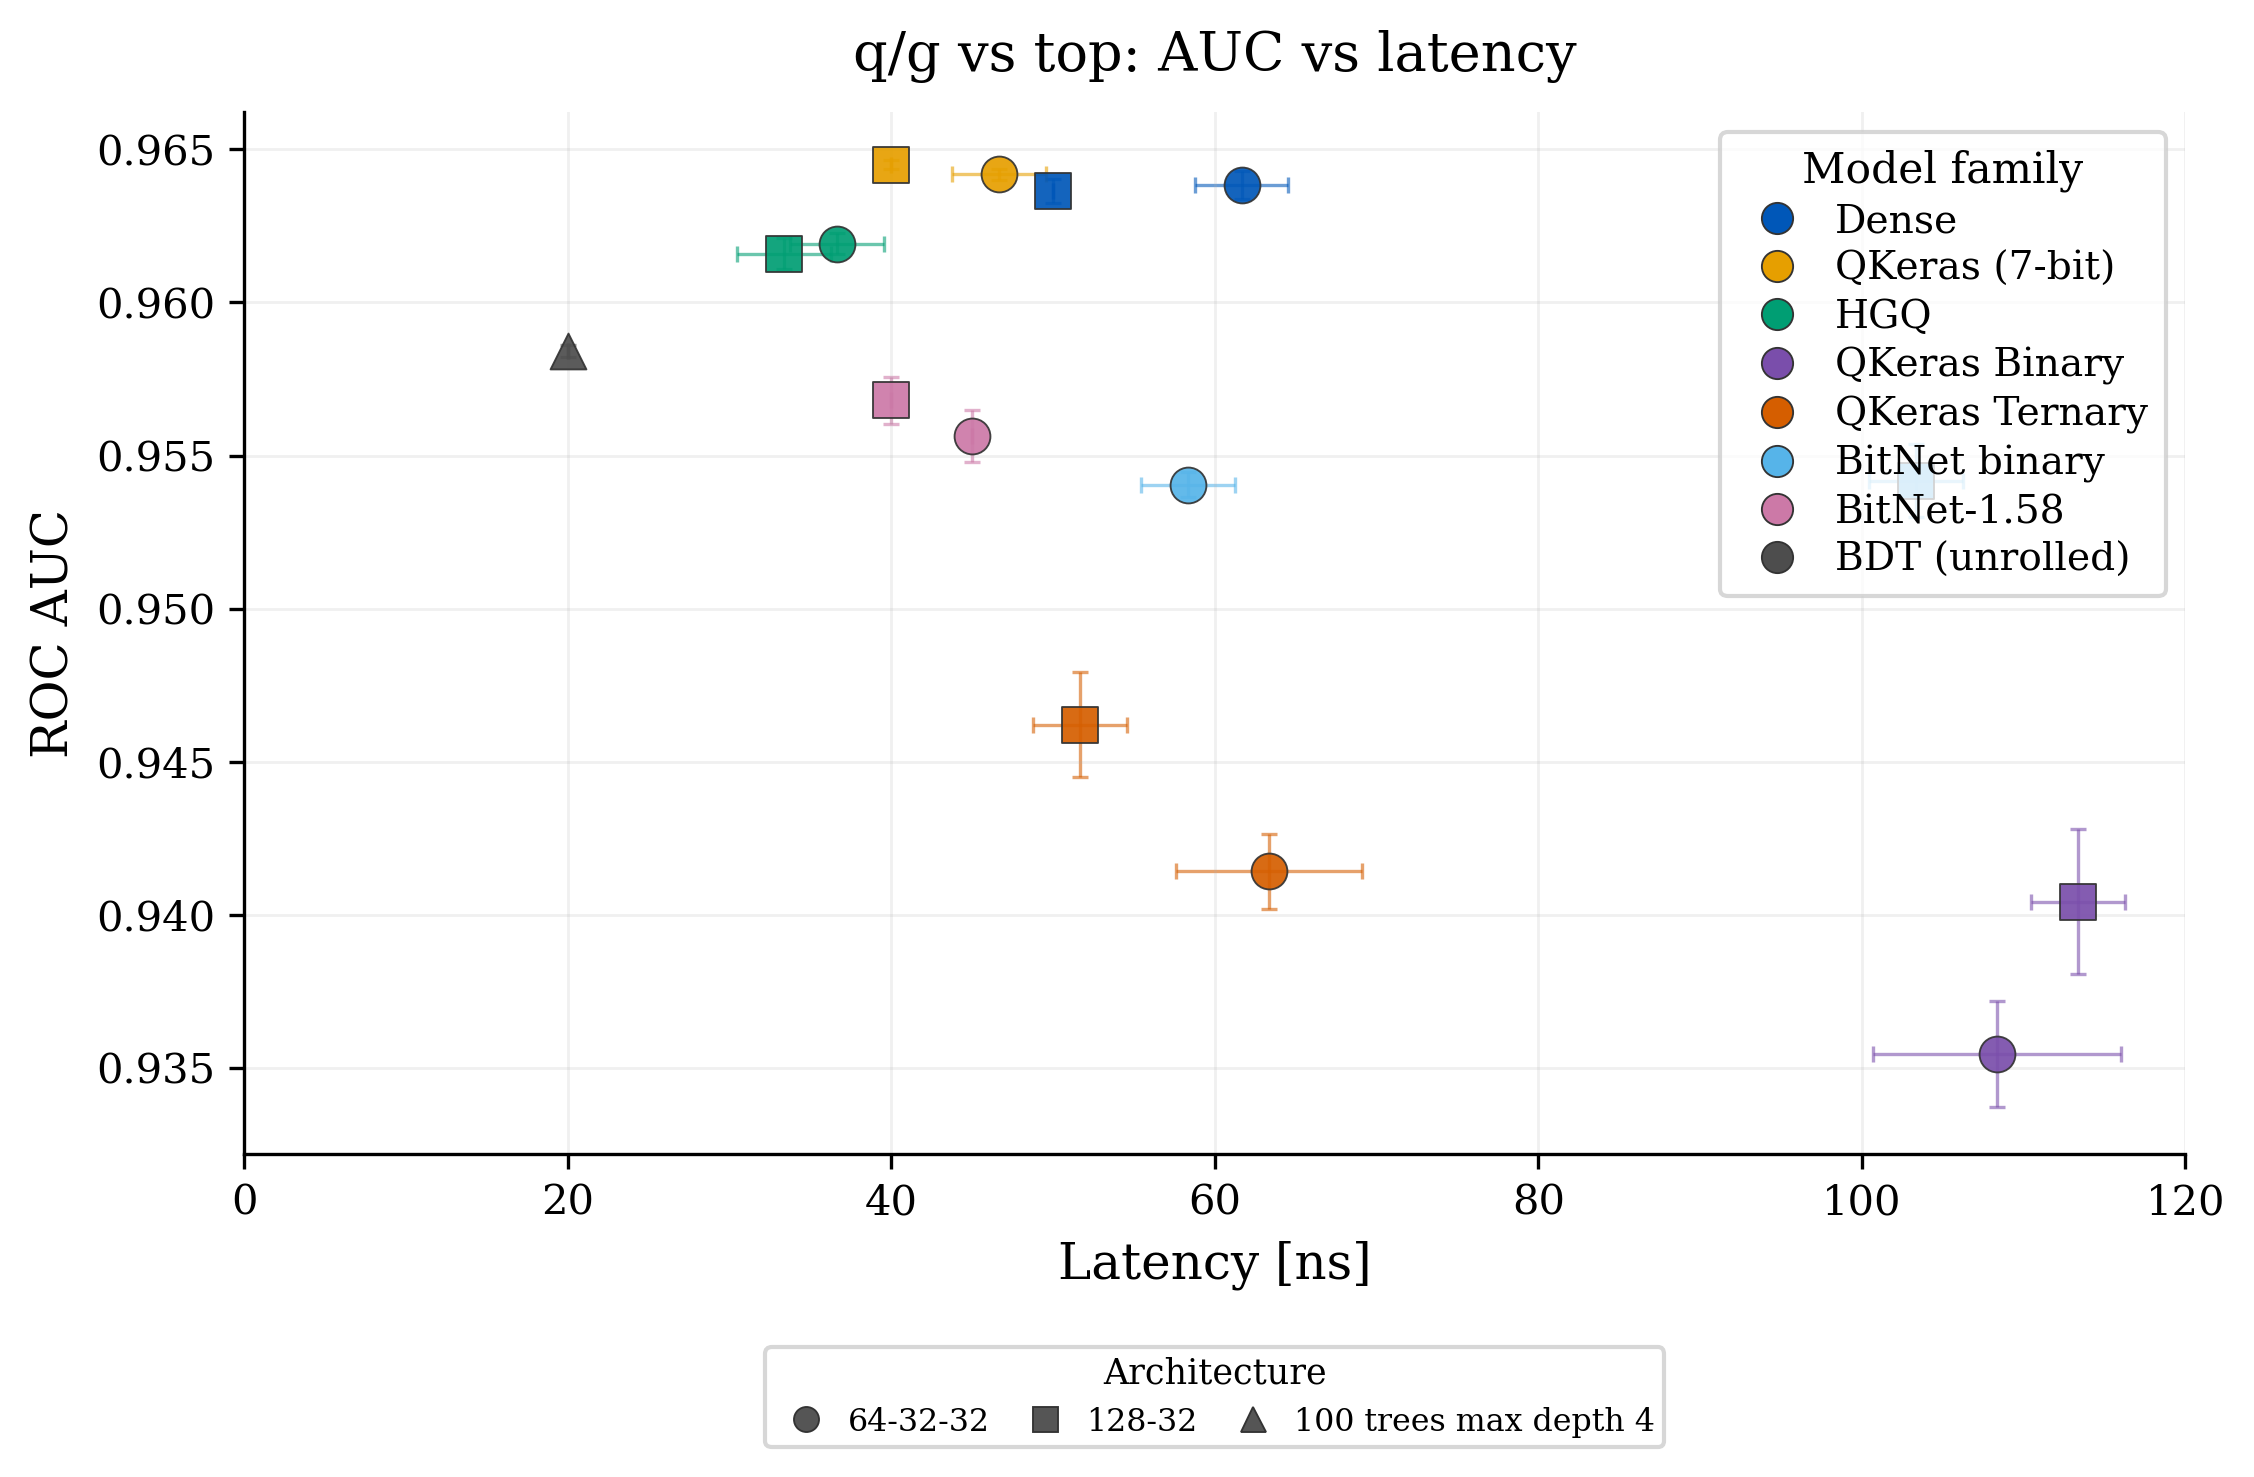
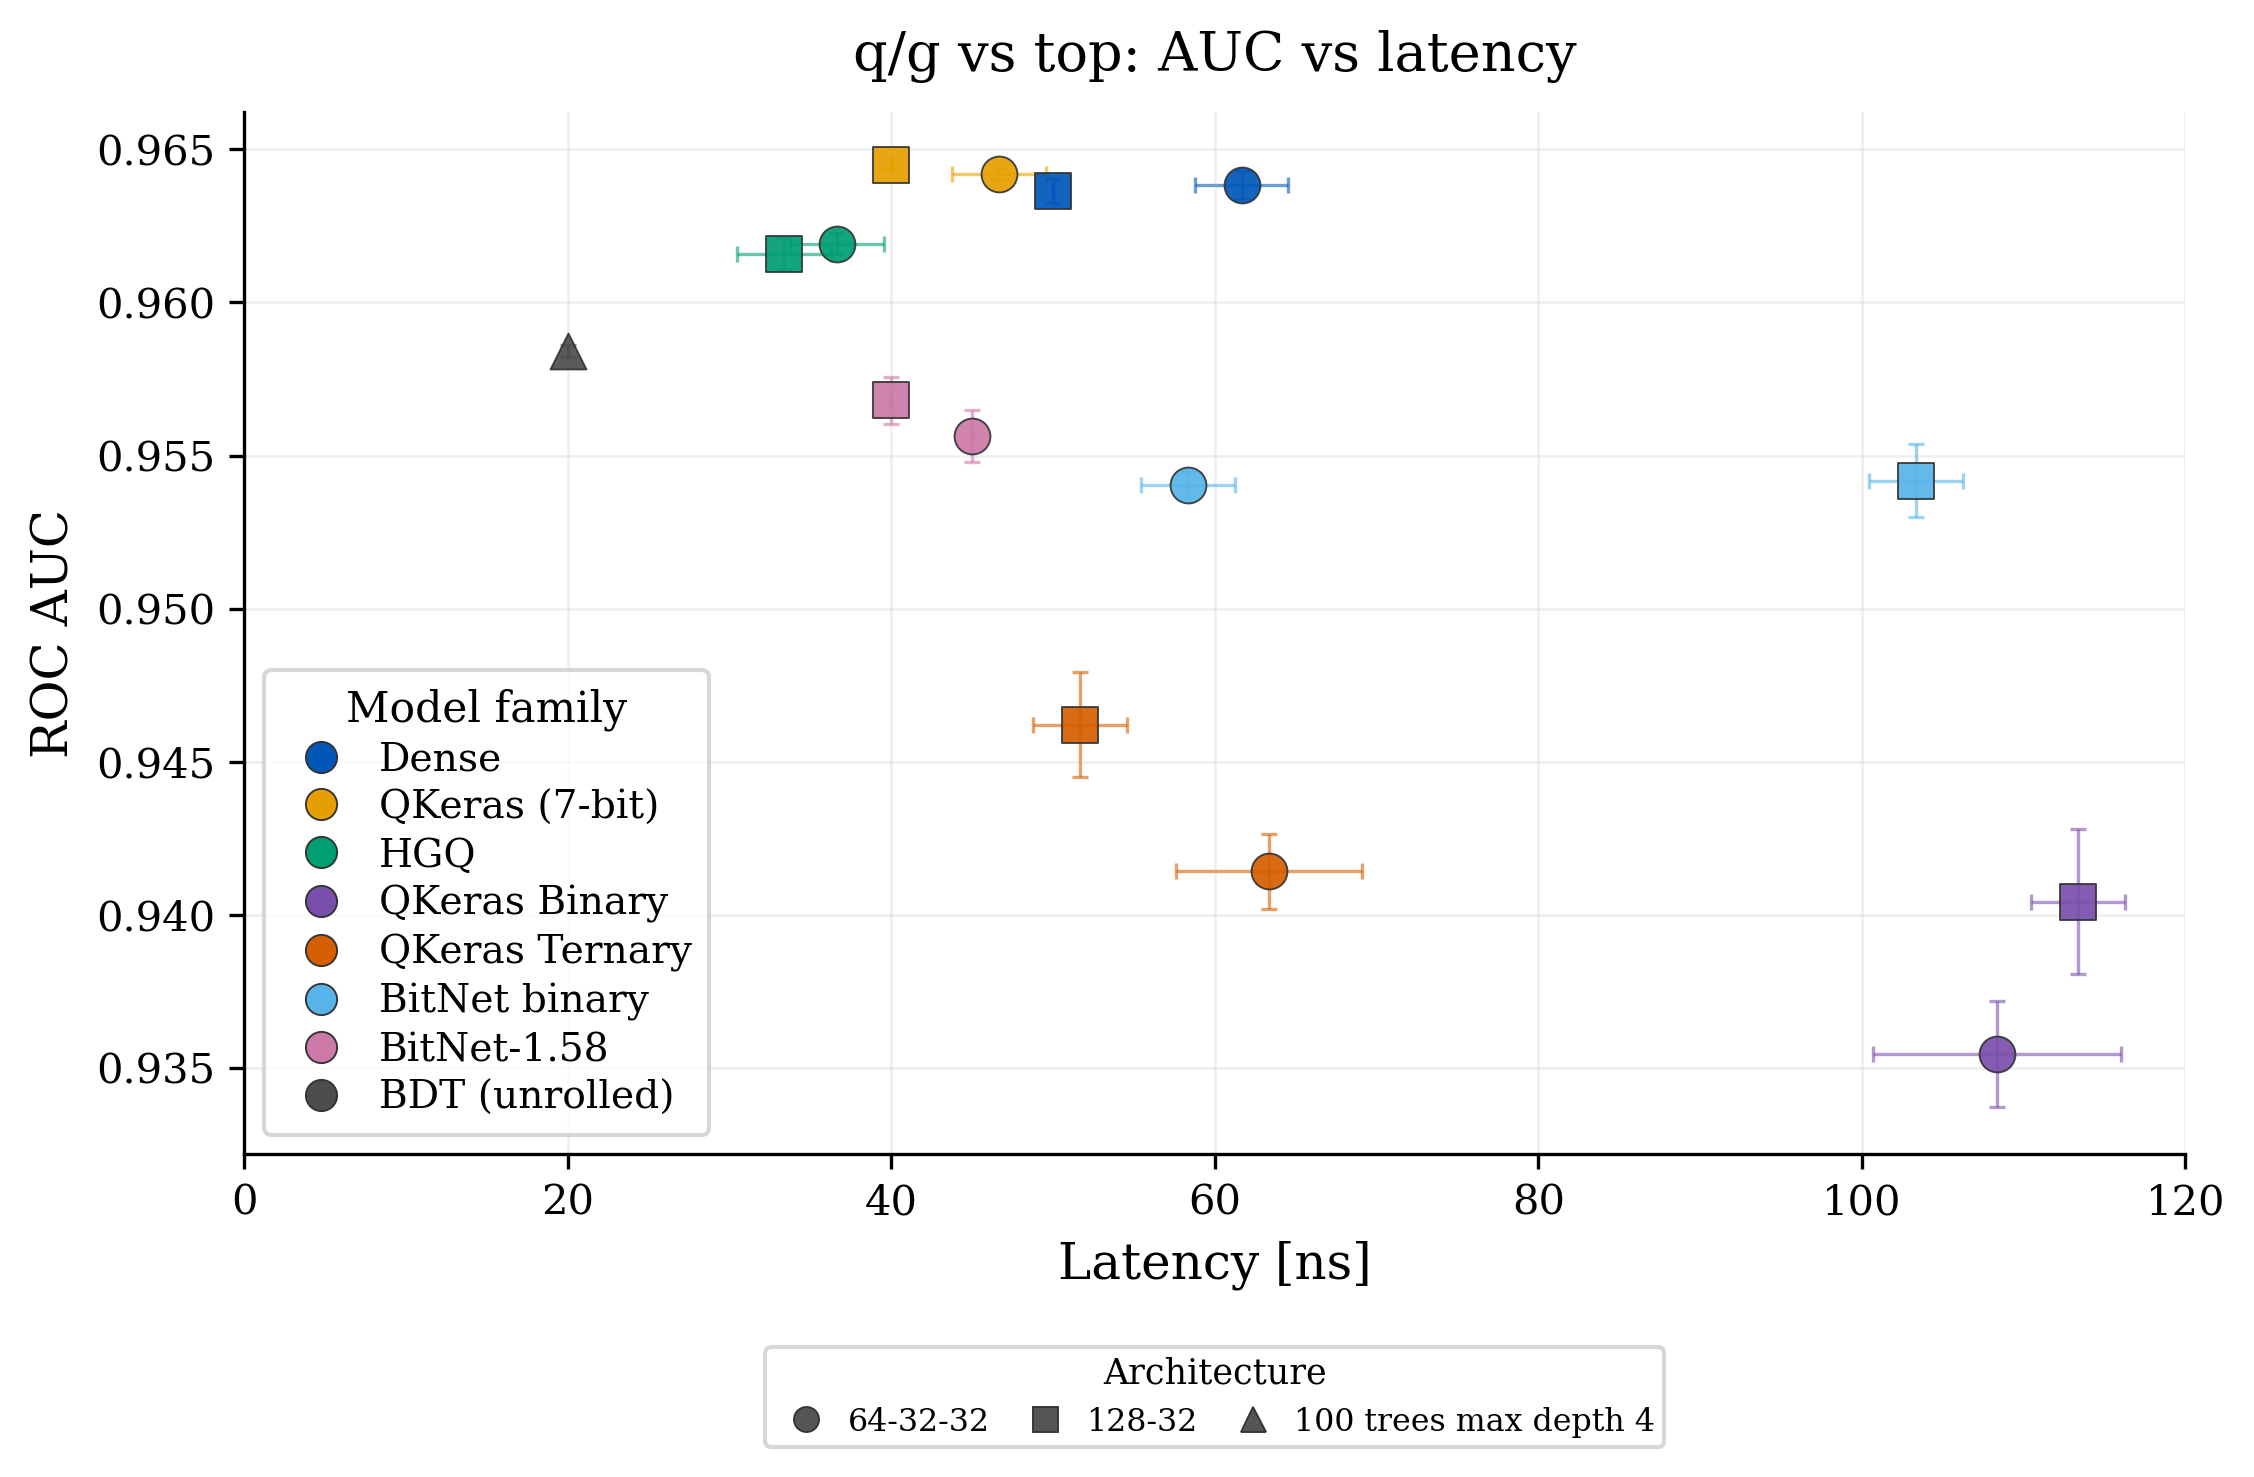
Move top benchmark latency legend

Changed region(s): [[0.1242, 0.4672, 0.3106, 0.7786], [0.7764, 0.0934, 0.9627, 0.4049]]

diff --git a/scripts/generate_benchmark_artifacts.py b/scripts/generate_benchmark_artifacts.py
@@ -1466,7 +1466,7 @@ def main() -> int:
         xerr_key="latency_ns_std",
         yerr_key="auc_std",
         xlim=(0, 120),
-        model_legend_loc="upper right",
+        model_legend_loc="lower left",
     )
     multiclass_plot_rows = []
     for row in multiclass:

diff --git a/scripts/reproduce_public_artifacts.py b/scripts/reproduce_public_artifacts.py
@@ -369,7 +369,7 @@ def main() -> int:
         xerr_key="latency_ns_std",
         yerr_key="auc_std",
         xlim=(0, 120),
-        model_legend_loc="upper right",
+        model_legend_loc="lower left",
     )
     if multiclass_rows:
         plot_pareto(
